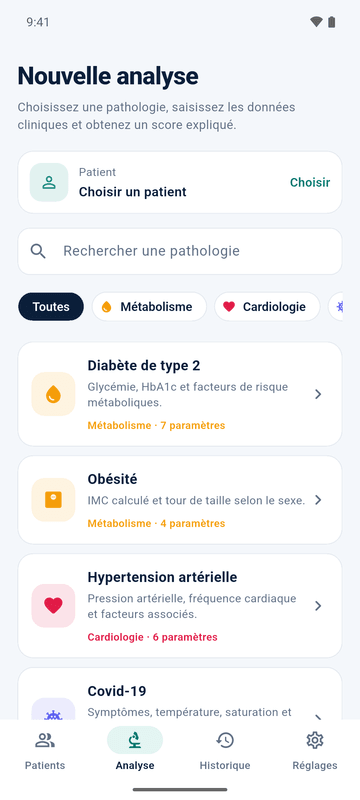
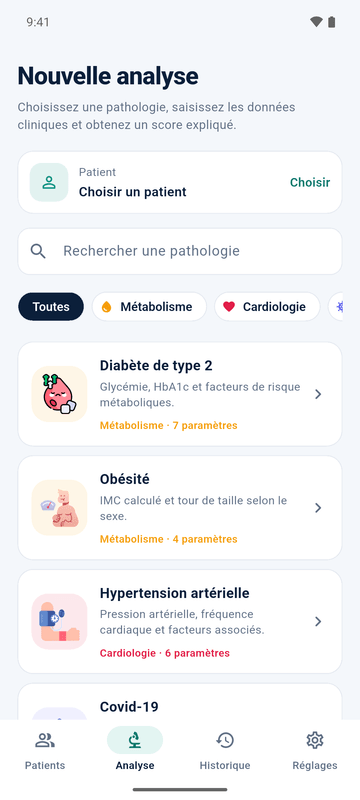
feat: illustrations, portraits et médecin dans l'interface
Les illustrations des pathologies (diabète, obésité, hypertension, plus Covid-19 et anémie redessinées dans le même style plat), la médecin sur l'écran de connexion et dans l'en-tête, les portraits des patients et le robot de l'analyse en cours. Captures, bannière et visite animée mises à jour.

diff --git a/lib/data/sample_data.dart b/lib/data/sample_data.dart
@@ -8,14 +8,16 @@ const doctorName = 'Dr Claire Mbarga';
 const doctorSpecialty = 'Médecine générale';
 const clinicName = 'Clinique du Lac, Douala';
 
+const doctorPhoto = 'assets/images/doctor-avatar.png';
+
 final samplePatients = [
-  Patient(id: 'p1', firstName: 'Amina', lastName: 'Mballa', birthDate: DateTime(1979, 3, 15), sex: Sex.female, email: 'amina.mballa@example.com', phone: '+237 6 77 21 45 10', status: PatientStatus.treatment),
+  Patient(id: 'p1', firstName: 'David', lastName: 'Ekoto', birthDate: DateTime(1984, 5, 4), sex: Sex.male, email: 'david.ekoto@example.com', phone: '+237 6 77 21 45 10', status: PatientStatus.treatment, photo: 'assets/images/patients/p1.jpg'),
   Patient(id: 'p2', firstName: 'Emmanuel', lastName: 'Ngouo', birthDate: DateTime(1966, 8, 22), sex: Sex.male, email: 'e.ngouo@example.com', phone: '+237 6 99 04 18 72', status: PatientStatus.critical),
-  Patient(id: 'p3', firstName: 'Lucie', lastName: 'Koumba', birthDate: DateTime(1990, 11, 9), sex: Sex.female, email: 'lucie.koumba@example.com', phone: '+237 6 55 63 02 91', status: PatientStatus.stable),
-  Patient(id: 'p4', firstName: 'David', lastName: 'Ekoto', birthDate: DateTime(1984, 5, 4), sex: Sex.male, email: 'david.ekoto@example.com', phone: '+237 6 70 88 13 26'),
+  Patient(id: 'p3', firstName: 'Léa', lastName: 'Martin', birthDate: DateTime(1990, 11, 9), sex: Sex.female, email: 'lea.martin@example.com', phone: '+237 6 55 63 02 91', status: PatientStatus.stable, photo: 'assets/images/patients/p3.jpg'),
+  Patient(id: 'p4', firstName: 'Yannick', lastName: 'Fotso', birthDate: DateTime(1997, 2, 21), sex: Sex.male, email: 'yannick.fotso@example.com', phone: '+237 6 70 88 13 26', photo: 'assets/images/patients/p4.jpg'),
   Patient(id: 'p5', firstName: 'Fatou', lastName: 'Ndiaye', birthDate: DateTime(1988, 2, 17), sex: Sex.female, email: 'fatou.ndiaye@example.com', phone: '+237 6 94 37 50 08', status: PatientStatus.treatment),
-  Patient(id: 'p6', firstName: 'Bruno', lastName: 'Tchato', birthDate: DateTime(1959, 7, 23), sex: Sex.male, email: 'bruno.tchato@example.com', phone: '+237 6 51 72 66 40', status: PatientStatus.stable),
-  Patient(id: 'p7', firstName: 'Sandra', lastName: 'Meka', birthDate: DateTime(1995, 12, 12), sex: Sex.female, email: 'sandra.meka@example.com', phone: '+237 6 80 19 24 57'),
+  Patient(id: 'p6', firstName: 'Marc', lastName: 'Lefèvre', birthDate: DateTime(1972, 7, 23), sex: Sex.male, email: 'marc.lefevre@example.com', phone: '+237 6 51 72 66 40', status: PatientStatus.stable, photo: 'assets/images/patients/p6.jpg'),
+  Patient(id: 'p7', firstName: 'Inès', lastName: 'Moreau', birthDate: DateTime(1995, 12, 12), sex: Sex.female, email: 'ines.moreau@example.com', phone: '+237 6 80 19 24 57', photo: 'assets/images/patients/p7.jpg'),
 ];
 
 List<Analysis> sampleAnalyses() {
@@ -28,12 +30,12 @@ List<Analysis> sampleAnalyses() {
 
   return [
     Analysis(patient: p['p2']!, disease: hypertension, date: earlier(55), values: {'sbp': 162.0, 'dbp': 98.0, 'hr': 88.0, 'chol': 246.0, 'age': 60.0, 'smoker': true}),
-    Analysis(patient: p['p1']!, disease: diabetes, date: earlier(100), values: {'glucose': 118.0, 'hba1c': 6.1, 'bmi': 29.4, 'age': 47.0, 'dbp': 84.0, 'family': true, 'sedentary': false}),
+    Analysis(patient: p['p1']!, disease: diabetes, date: earlier(100), values: {'glucose': 118.0, 'hba1c': 6.1, 'bmi': 29.4, 'age': 42.0, 'dbp': 84.0, 'family': true, 'sedentary': false}),
     Analysis(patient: p['p5']!, disease: anemia, date: ago(1, 16, 5), values: {'hb': 10.4, 'sex': 0, 'hr': 96.0, 'fatigue': true, 'pallor': true}),
     Analysis(patient: p['p3']!, disease: covid, date: ago(1, 11, 30), values: {'temp': 37.2, 'spo2': 98.0, 'cough': true, 'dyspnea': false, 'anosmia': false, 'contact': false}),
     Analysis(patient: p['p6']!, disease: obesity, date: ago(3, 14, 20), values: {'weight': 96.0, 'height': 174.0, 'waist': 108.0, 'sex': 1}),
-    Analysis(patient: p['p1']!, disease: hypertension, date: ago(21, 15, 0), values: {'sbp': 134.0, 'dbp': 86.0, 'hr': 76.0, 'chol': 205.0, 'age': 47.0, 'smoker': false}),
-    Analysis(patient: p['p1']!, disease: diabetes, date: ago(92, 9, 30), values: {'glucose': 98.0, 'hba1c': 5.6, 'bmi': 29.9, 'age': 47.0, 'dbp': 82.0, 'family': true, 'sedentary': false}),
-    Analysis(patient: p['p4']!, disease: diabetes, date: ago(5, 10, 15), values: {'glucose': 92.0, 'hba1c': 5.3, 'bmi': 23.8, 'age': 42.0, 'dbp': 76.0, 'family': false, 'sedentary': true}),
+    Analysis(patient: p['p1']!, disease: hypertension, date: ago(21, 15, 0), values: {'sbp': 134.0, 'dbp': 86.0, 'hr': 76.0, 'chol': 205.0, 'age': 42.0, 'smoker': false}),
+    Analysis(patient: p['p1']!, disease: diabetes, date: ago(92, 9, 30), values: {'glucose': 98.0, 'hba1c': 5.6, 'bmi': 29.9, 'age': 42.0, 'dbp': 82.0, 'family': true, 'sedentary': false}),
+    Analysis(patient: p['p4']!, disease: diabetes, date: ago(5, 10, 15), values: {'glucose': 92.0, 'hba1c': 5.3, 'bmi': 23.8, 'age': 29.0, 'dbp': 76.0, 'family': false, 'sedentary': true}),
   ];
 }

diff --git a/lib/screens/login_screen.dart b/lib/screens/login_screen.dart
@@ -48,17 +48,19 @@ class _LoginScreenState extends State<LoginScreen> {
           padding: const EdgeInsets.fromLTRB(24, 32, 24, 24),
           children: [
             const BrandMark(),
-            const SizedBox(height: 40),
+            const SizedBox(height: 24),
+            const _Hero(),
+            const SizedBox(height: 28),
             const Text(
               'Bon retour, docteur',
-              style: TextStyle(fontSize: 30, fontWeight: FontWeight.w800, letterSpacing: -0.6),
+              style: TextStyle(fontSize: 26, fontWeight: FontWeight.w800, letterSpacing: -0.5),
             ),
             const SizedBox(height: 8),
             const Text(
               'Connectez-vous pour suivre vos patients et lancer une analyse.',
               style: TextStyle(fontSize: 15, color: AppColors.muted, height: 1.4),
             ),
-            const SizedBox(height: 32),
+            const SizedBox(height: 24),
             const _Label('Téléphone'),
             Row(
               children: [
@@ -143,6 +145,59 @@ class _LoginScreenState extends State<LoginScreen> {
             ),
           ],
         ),
+      ),
+    );
+  }
+}
+
+/// Bandeau d'accueil : la promesse de l'app et la médecin.
+class _Hero extends StatelessWidget {
+  const _Hero();
+
+  @override
+  Widget build(BuildContext context) {
+    return Container(
+      constraints: const BoxConstraints(minHeight: 168),
+      clipBehavior: Clip.antiAlias,
+      decoration: BoxDecoration(
+        gradient: const LinearGradient(
+          colors: [Color(0xFF14B8A6), AppColors.primaryDark],
+          begin: Alignment.topLeft,
+          end: Alignment.bottomRight,
+        ),
+        borderRadius: BorderRadius.circular(24),
+      ),
+      child: Stack(
+        children: [
+          Positioned(
+            right: -40,
+            top: -40,
+            child: Container(
+              width: 190,
+              height: 190,
+              decoration: BoxDecoration(shape: BoxShape.circle, color: Colors.white.withValues(alpha: 0.1)),
+            ),
+          ),
+          Positioned(
+            right: 4,
+            bottom: 0,
+            top: 10,
+            child: Image.asset('assets/images/doctor.png', fit: BoxFit.contain, alignment: Alignment.bottomCenter),
+          ),
+          const Padding(
+            padding: EdgeInsets.fromLTRB(20, 34, 150, 34),
+            child: Column(
+              crossAxisAlignment: CrossAxisAlignment.start,
+              children: [
+                Text('Le dépistage clinique, expliqué.',
+                    style: TextStyle(color: Colors.white, fontSize: 19, fontWeight: FontWeight.w800, height: 1.25)),
+                SizedBox(height: 10),
+                Text('5 pathologies couvertes',
+                    style: TextStyle(color: Color(0xDDFFFFFF), fontSize: 13, fontWeight: FontWeight.w500)),
+              ],
+            ),
+          ),
+        ],
       ),
     );
   }

diff --git a/lib/widgets/common.dart b/lib/widgets/common.dart
@@ -3,6 +3,7 @@ import 'dart:math' as math;
 import 'package:flutter/material.dart';
 
 import '../models/analysis.dart';
+import '../models/disease.dart';
 import '../models/patient.dart';
 import '../models/risk.dart';
 import '../services/format.dart';
@@ -78,11 +79,17 @@ const _avatarColors = [
   Color(0xFFF59E0B), Color(0xFF0EA5E9), Color(0xFF9333EA),
 ];
 
+/// Portrait rond, ou initiales sur fond teinté quand il n'y a pas de photo.
 class Avatar extends StatelessWidget {
-  const Avatar(this.initials, {super.key, this.size = 46});
+  const Avatar(this.initials, {super.key, this.size = 46, this.photo});
+
+  Avatar.of(Patient patient, {super.key, this.size = 46})
+      : initials = patient.initials,
+        photo = patient.photo;
 
   final String initials;
   final double size;
+  final String? photo;
 
   @override
   Widget build(BuildContext context) {
@@ -91,11 +98,36 @@ class Avatar extends StatelessWidget {
       width: size,
       height: size,
       alignment: Alignment.center,
+      clipBehavior: Clip.antiAlias,
       decoration: BoxDecoration(color: color.withValues(alpha: 0.14), shape: BoxShape.circle),
-      child: Text(
-        initials,
-        style: TextStyle(color: color, fontWeight: FontWeight.w700, fontSize: size * 0.34),
+      child: photo != null
+          ? Image.asset(photo!, width: size, height: size, fit: BoxFit.cover)
+          : Text(
+              initials,
+              style: TextStyle(color: color, fontWeight: FontWeight.w700, fontSize: size * 0.34),
+            ),
+    );
+  }
+}
+
+/// Illustration d'une pathologie sur un carré arrondi teinté de sa catégorie.
+class DiseaseArt extends StatelessWidget {
+  const DiseaseArt(this.disease, {super.key, this.size = 44});
+
+  final Disease disease;
+  final double size;
+
+  @override
+  Widget build(BuildContext context) {
+    return Container(
+      width: size,
+      height: size,
+      padding: EdgeInsets.all(size * 0.14),
+      decoration: BoxDecoration(
+        color: disease.category.color.withValues(alpha: 0.1),
+        borderRadius: BorderRadius.circular(size * 0.3),
       ),
+      child: Image.asset(disease.image, fit: BoxFit.contain),
     );
   }
 }
@@ -169,7 +201,7 @@ class AnalysisTile extends StatelessWidget {
       padding: const EdgeInsets.all(14),
       child: Row(
         children: [
-          IconTile(a.disease.icon, a.disease.category.color),
+          DiseaseArt(a.disease),
           const SizedBox(width: 12),
           Expanded(
             child: Column(

diff --git a/lib/screens/catalog_screen.dart b/lib/screens/catalog_screen.dart
@@ -59,7 +59,7 @@ class _CatalogScreenState extends State<CatalogScreen> {
                   onTap: () => Navigator.of(context).pop(p),
                   child: Row(
                     children: [
-                      Avatar(p.initials, size: 40),
+                      Avatar.of(p, size: 40),
                       const SizedBox(width: 12),
                       Expanded(
                         child: Text(p.fullName, style: const TextStyle(fontWeight: FontWeight.w600)),
@@ -172,7 +172,7 @@ class _PatientCard extends StatelessWidget {
         children: [
           p == null
               ? const IconTile(Icons.person_outline_rounded, AppColors.primary)
-              : Avatar(p.initials, size: 44),
+              : Avatar.of(p, size: 44),
           const SizedBox(width: 12),
           Expanded(
             child: Column(
@@ -205,7 +205,7 @@ class _DiseaseCard extends StatelessWidget {
       onTap: onTap,
       child: Row(
         children: [
-          IconTile(disease.icon, disease.category.color, size: 50),
+          DiseaseArt(disease, size: 64),
           const SizedBox(width: 14),
           Expanded(
             child: Column(

diff --git a/lib/data/diseases.dart b/lib/data/diseases.dart
@@ -21,6 +21,7 @@ String _f(double x, [int d = 0]) => x.toStringAsFixed(d);
 
 final diabetes = Disease(
   id: 'diabetes',
+  image: 'assets/images/diseases/diabetes.png',
   name: 'Diabète de type 2',
   category: metabolism,
   icon: Icons.water_drop_rounded,
@@ -76,6 +77,7 @@ final diabetes = Disease(
 
 final obesity = Disease(
   id: 'obesity',
+  image: 'assets/images/diseases/obesity.png',
   name: 'Obésité',
   category: metabolism,
   icon: Icons.monitor_weight_rounded,
@@ -125,6 +127,7 @@ final obesity = Disease(
 
 final hypertension = Disease(
   id: 'hypertension',
+  image: 'assets/images/diseases/hypertension.png',
   name: 'Hypertension artérielle',
   category: cardio,
   icon: Icons.favorite_rounded,
@@ -181,6 +184,7 @@ final hypertension = Disease(
 
 final covid = Disease(
   id: 'covid',
+  image: 'assets/images/diseases/covid.png',
   name: 'Covid-19',
   category: infectious,
   icon: Icons.coronavirus_rounded,
@@ -223,6 +227,7 @@ final covid = Disease(
 
 final anemia = Disease(
   id: 'anemia',
+  image: 'assets/images/diseases/anemia.png',
   name: 'Anémie',
   category: hematology,
   icon: Icons.bloodtype_rounded,

diff --git a/lib/screens/settings_screen.dart b/lib/screens/settings_screen.dart
@@ -68,7 +68,7 @@ class _SettingsScreenState extends State<SettingsScreen> {
                 padding: const EdgeInsets.only(bottom: 8),
                 child: Row(
                   children: [
-                    IconTile(d.icon, d.category.color, size: 34),
+                    DiseaseArt(d, size: 36),
                     const SizedBox(width: 12),
                     Expanded(child: Text(d.name, style: const TextStyle(fontWeight: FontWeight.w600))),
                     Text('${d.params.length} paramètres', style: const TextStyle(color: AppColors.muted)),
@@ -94,7 +94,7 @@ class _SettingsScreenState extends State<SettingsScreen> {
               padding: EdgeInsets.all(18),
               child: Row(
                 children: [
-                  Avatar('CM', size: 56),
+                  Avatar('CM', size: 56, photo: doctorPhoto),
                   SizedBox(width: 14),
                   Expanded(
                     child: Column(

diff --git a/lib/screens/analyzing_screen.dart b/lib/screens/analyzing_screen.dart
@@ -85,13 +85,11 @@ class _AnalyzingScreenState extends State<AnalyzingScreen> with SingleTickerProv
                   );
                 },
                 child: Container(
-                  width: 72,
-                  height: 72,
-                  decoration: const BoxDecoration(
-                    shape: BoxShape.circle,
-                    gradient: LinearGradient(colors: [AppColors.primary, AppColors.primaryDark]),
-                  ),
-                  child: Icon(d.icon, color: Colors.white, size: 34),
+                  width: 92,
+                  height: 92,
+                  padding: const EdgeInsets.all(14),
+                  decoration: const BoxDecoration(shape: BoxShape.circle, color: Colors.white),
+                  child: Image.asset('assets/images/robot.png'),
                 ),
               ),
               const SizedBox(height: 32),

diff --git a/lib/screens/analysis_form_screen.dart b/lib/screens/analysis_form_screen.dart
@@ -67,7 +67,7 @@ class _AnalysisFormScreenState extends State<AnalysisFormScreen> {
           AppCard(
             child: Row(
               children: [
-                IconTile(d.icon, d.category.color, size: 52),
+                DiseaseArt(d, size: 72),
                 const SizedBox(width: 14),
                 Expanded(
                   child: Column(
@@ -86,7 +86,7 @@ class _AnalysisFormScreenState extends State<AnalysisFormScreen> {
           const SizedBox(height: 12),
           Row(
             children: [
-              Avatar(widget.patient.initials, size: 32),
+              Avatar.of(widget.patient, size: 32),
               const SizedBox(width: 10),
               Text('${widget.patient.fullName} · ${widget.patient.age} ans',
                   style: const TextStyle(fontWeight: FontWeight.w600)),

diff --git a/lib/screens/patients_screen.dart b/lib/screens/patients_screen.dart
@@ -41,7 +41,7 @@ class _PatientsScreenState extends State<PatientsScreen> {
           children: [
             Row(
               children: [
-                const Avatar('CM', size: 46),
+                const Avatar('CM', size: 46, photo: doctorPhoto),
                 const SizedBox(width: 12),
                 const Expanded(
                   child: Column(
@@ -196,7 +196,7 @@ class _PatientTile extends StatelessWidget {
       ),
       child: Row(
         children: [
-          Avatar(patient.initials),
+          Avatar.of(patient),
           const SizedBox(width: 12),
           Expanded(
             child: Column(

diff --git a/lib/models/patient.dart b/lib/models/patient.dart
@@ -20,6 +20,7 @@ class Patient {
     required this.email,
     required this.phone,
     this.status = PatientStatus.followUp,
+    this.photo,
   });
 
   final String id;
@@ -30,6 +31,9 @@ class Patient {
   final String email;
   final String phone;
   final PatientStatus status;
+
+  /// Portrait dans les assets ; sans photo, l'avatar affiche les initiales.
+  final String? photo;
 
   String get fullName => '$firstName $lastName';
   String get initials => '${firstName[0]}${lastName[0]}'.toUpperCase();

diff --git a/lib/models/disease.dart b/lib/models/disease.dart
@@ -81,6 +81,7 @@ class Disease {
     required this.name,
     required this.category,
     required this.icon,
+    required this.image,
     required this.summary,
     required this.params,
     required this.assess,
@@ -90,6 +91,7 @@ class Disease {
   final String name;
   final Category category;
   final IconData icon;
+  final String image;
   final String summary;
   final List<ClinicalParam> params;
   final RiskResult Function(ClinicalValues values) assess;

diff --git a/lib/screens/patient_screen.dart b/lib/screens/patient_screen.dart
@@ -28,7 +28,7 @@ class PatientScreen extends StatelessWidget {
               children: [
                 Row(
                   children: [
-                    Avatar(patient.initials, size: 60),
+                    Avatar.of(patient, size: 60),
                     const SizedBox(width: 14),
                     Expanded(
                       child: Column(
